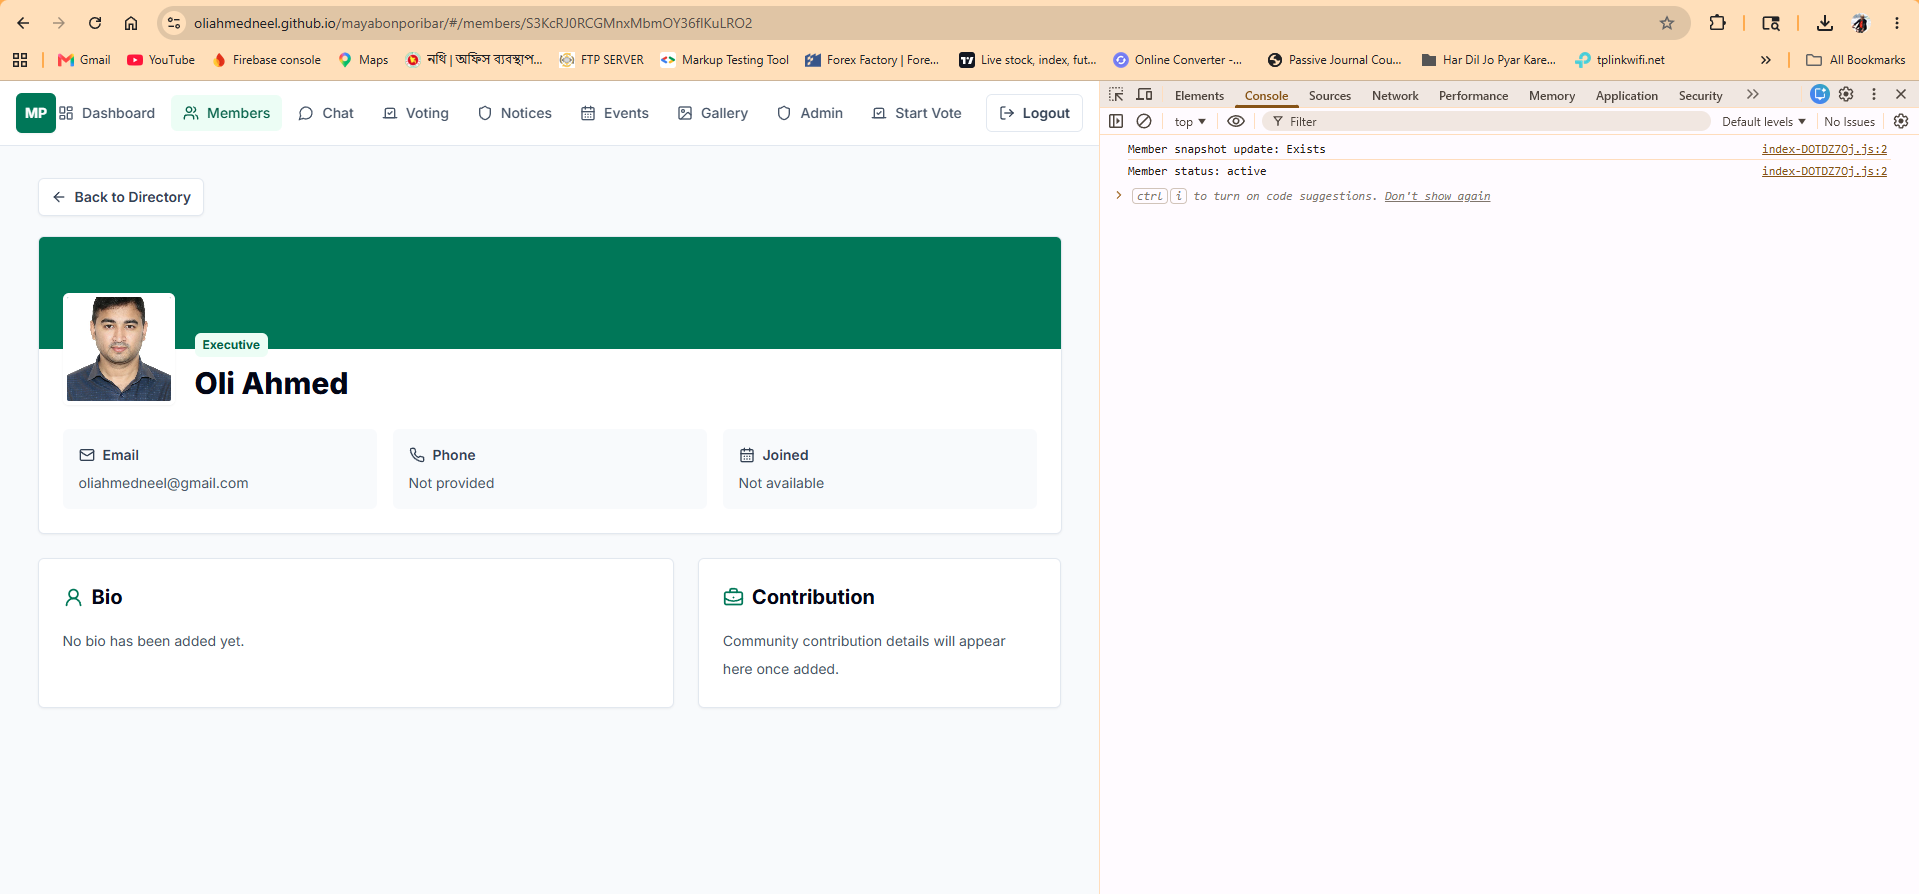
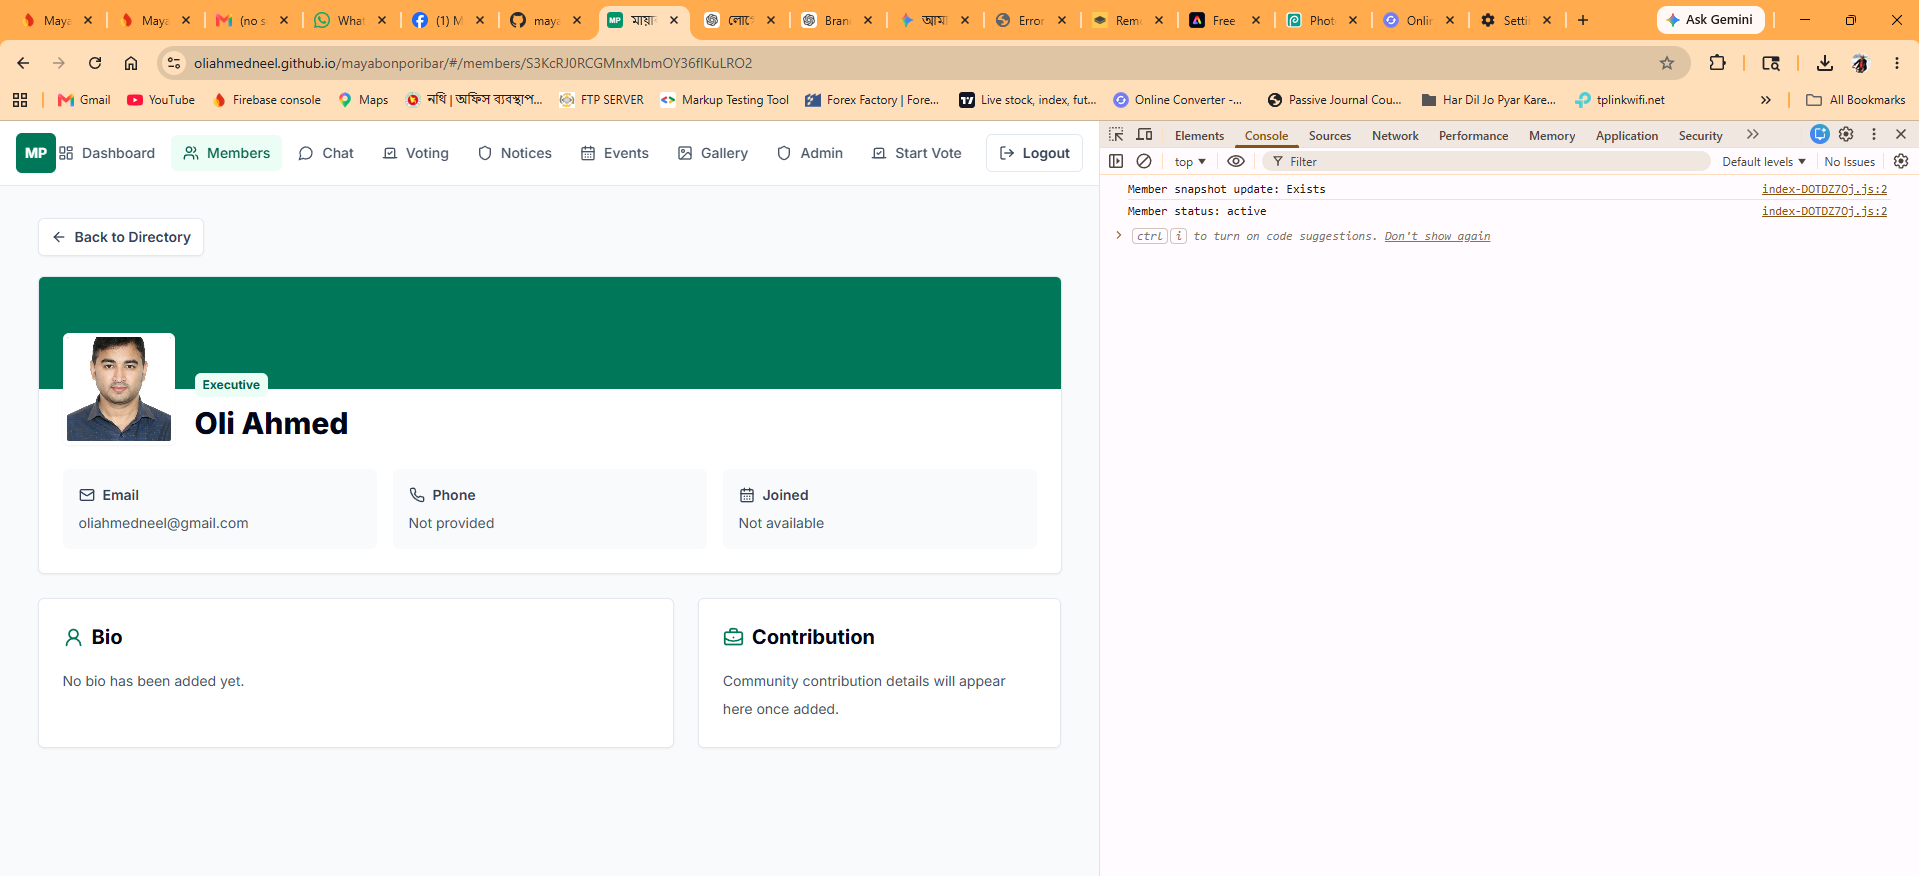
fix: wait for auth loading in profile

diff --git a/src/pages/MemberProfileDetail.jsx b/src/pages/MemberProfileDetail.jsx
@@ -12,7 +12,7 @@ function dateText(value) {
 
 export default function MemberProfileDetail() {
   const { memberId } = useParams();
-  const { uid } = useAuth();
+  const { uid, authLoading } = useAuth();
   const [profile, setProfile] = useState(null);
   const [loading, setLoading] = useState(true);
   const [error, setError] = useState("");
@@ -20,13 +20,6 @@ export default function MemberProfileDetail() {
   const [bioText, setBioText] = useState("");
 
   const isMyProfile = uid === memberId;
-
-  // Debugging logs
-  useEffect(() => {
-    console.log("Debug - Current UID:", uid);
-    console.log("Debug - Current MemberID:", memberId);
-    console.log("Debug - Is My Profile?:", isMyProfile);
-  }, [uid, memberId, isMyProfile]);
 
   useEffect(() => {
     if (!memberId) return undefined;
@@ -55,7 +48,7 @@ export default function MemberProfileDetail() {
     }
   }
 
-  if (loading) {
+  if (loading || authLoading) {
     return (
       <main className="flex min-h-[calc(100vh-65px)] items-center justify-center bg-slate-50 px-4">
         <div className="flex items-center gap-2 rounded-md border border-slate-200 bg-white px-5 py-4 text-sm text-slate-500 shadow-sm">
